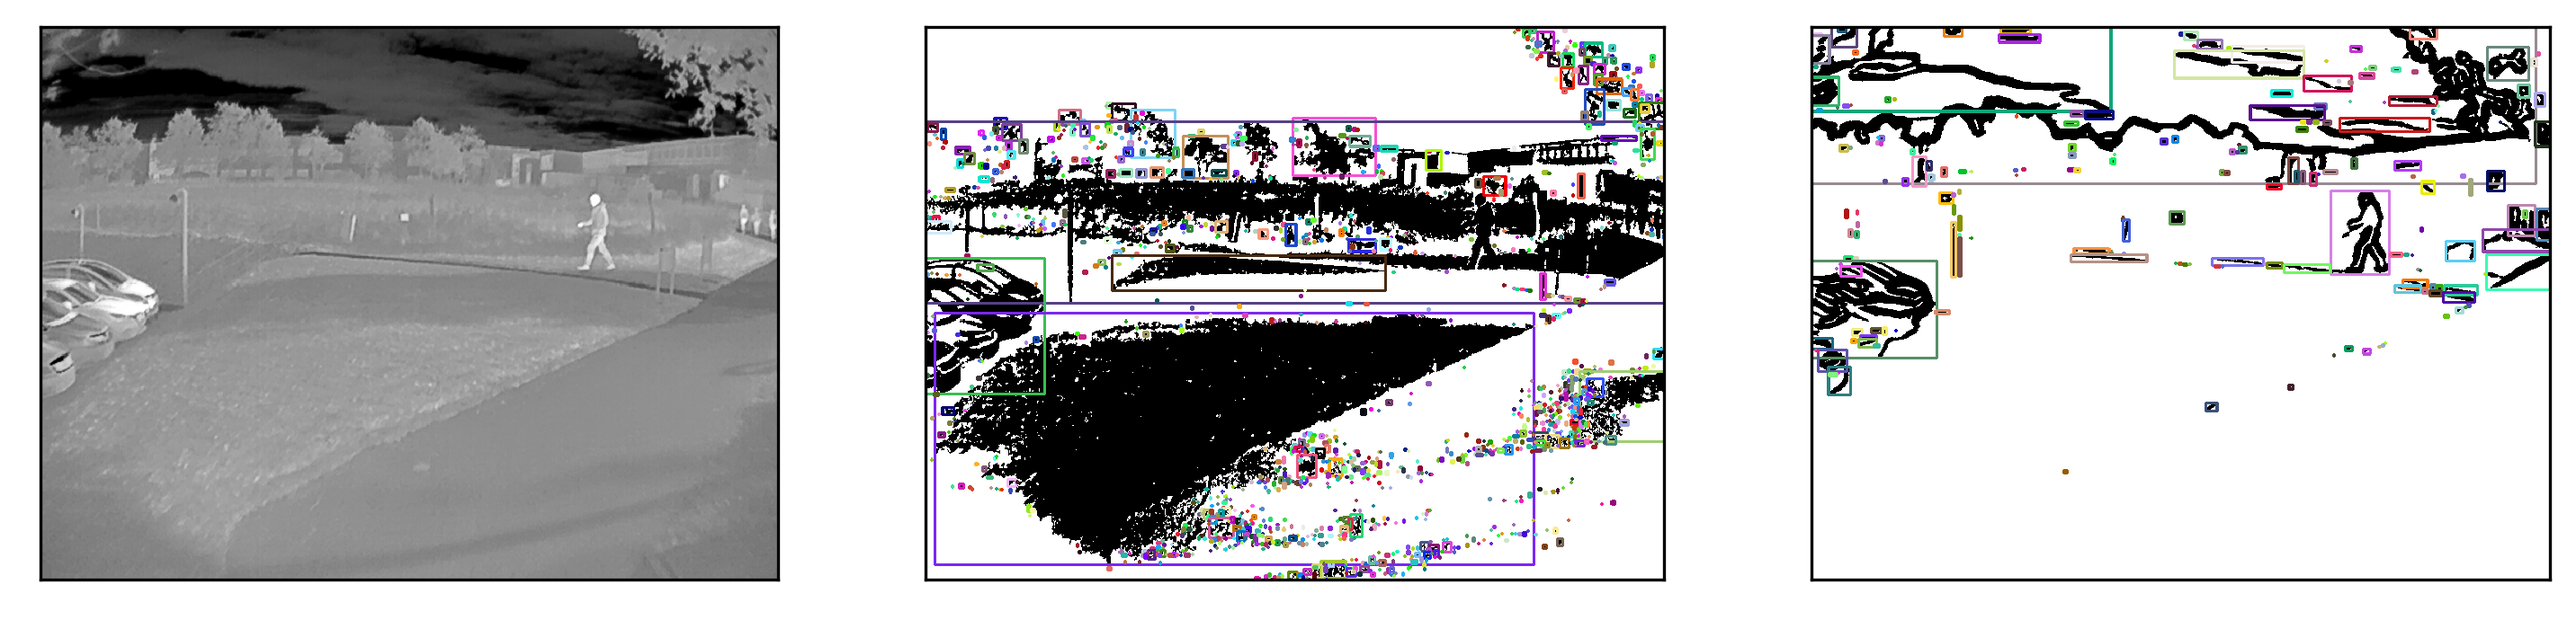
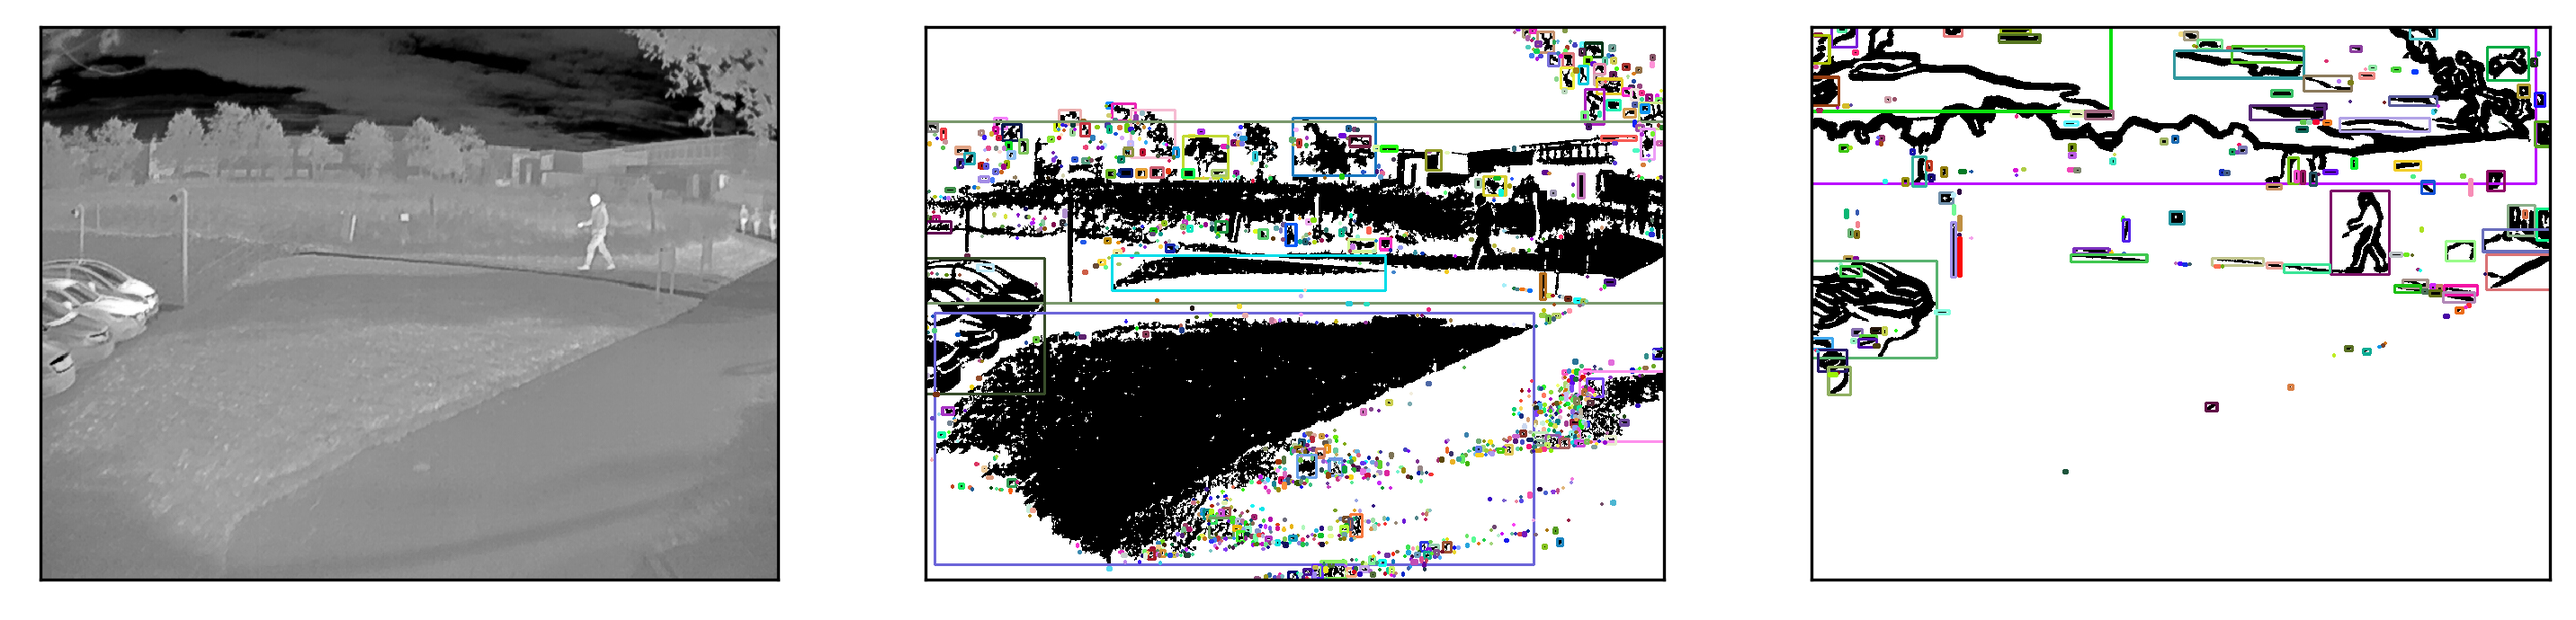
compute confidence map after running connected components algo

diff --git a/catkin_ws/src/persondetection/include/utils/boxes.py b/catkin_ws/src/persondetection/include/utils/boxes.py
@@ -2,6 +2,7 @@ import cv2
 import glob
 import numpy as np
 
+from utils.img_utils import angle_from_box
 from connected_components.connectedcomponents import calculate_confidence_score
 class Box:
     def __init__(self, img, xyxy = None, center = None, size = None, confidence=None):
@@ -52,8 +53,8 @@ class Box:
         rel_y = self.y/self.img_h
         rel_x = self.x/self.img_w
 
-        score_yh = np.power(calculate_confidence_score(rel_y, rel_h, SLOPE['y_height'], INTERCEPT['y_height']),2)
-        score_aspect_ratio = np.power(calculate_confidence_score(rel_h, rel_w, SLOPE['aspect_ratio'], INTERCEPT['aspect_ratio']), 2)
+        score_yh = calculate_confidence_score(rel_y, rel_h)
+        score_aspect_ratio = calculate_confidence_score(rel_h, rel_w)
         score_dimensions = np.round(np.round(score_yh, decimals=2) * np.round(score_aspect_ratio, decimals=2),decimals=2)
         total_score = score_dimensions
 
@@ -81,9 +82,8 @@ def makeConfidenceMapFromBoxes(img,boxes):
     map = np.float64(np.zeros_like(img))
     boxes_sorted = sorted(boxes,key=lambda box: box.score)
     for box in boxes_sorted:
-        if box.score > 0.5:
-            map[box.top_left['y']:box.bottom_right['y'],
-                box.top_left['x']:box.bottom_right['x']] = box.score
+        map[box.top_left['y']:box.bottom_right['y'],
+            box.top_left['x']:box.bottom_right['x']] = box.score
     return map
 
 

diff --git a/catkin_ws/src/persondetection/src/testing/thresholding.py b/catkin_ws/src/persondetection/src/testing/thresholding.py
@@ -5,6 +5,8 @@ import numpy as np
 import matplotlib.pyplot as plt
 from random import Random
 
+from utils.boxes import *
+
 folder = "src/persondetection/src/testing/"
 
 masks = {
@@ -200,7 +202,8 @@ def detect_connected_components(imgpath):
     # plt.show()
     plt.savefig(folder+"results/connectedcomp/"+imgpath.split("/")[-1], bbox_inches='tight')
 
-    return cimg, boxes
+    boxes_class = [Box(cimg, xyxy=box) for box in boxes]
+    return cimg, boxes_class
 
 def thresholding(imgpath):
     img = cv2.imread(imgpath)
@@ -261,8 +264,12 @@ def histo(imgpath):
     return img
 
 
-for imgpath in glob.glob(folder+"test_img/*.png"):
+for imgpath in glob.glob(folder+"test_img/ircam*.png"):
     #thresholding(imgpath)
     print(imgpath)
-    detect_connected_components(imgpath)
+    cimg, boxes_class = detect_connected_components(imgpath)
+    map = makeConfidenceMapFromBoxes(cimg, boxes_class)
+    plt.figure(num=None)
+    plt.imshow(map)
+    plt.show()
     # histo(imgpath)
